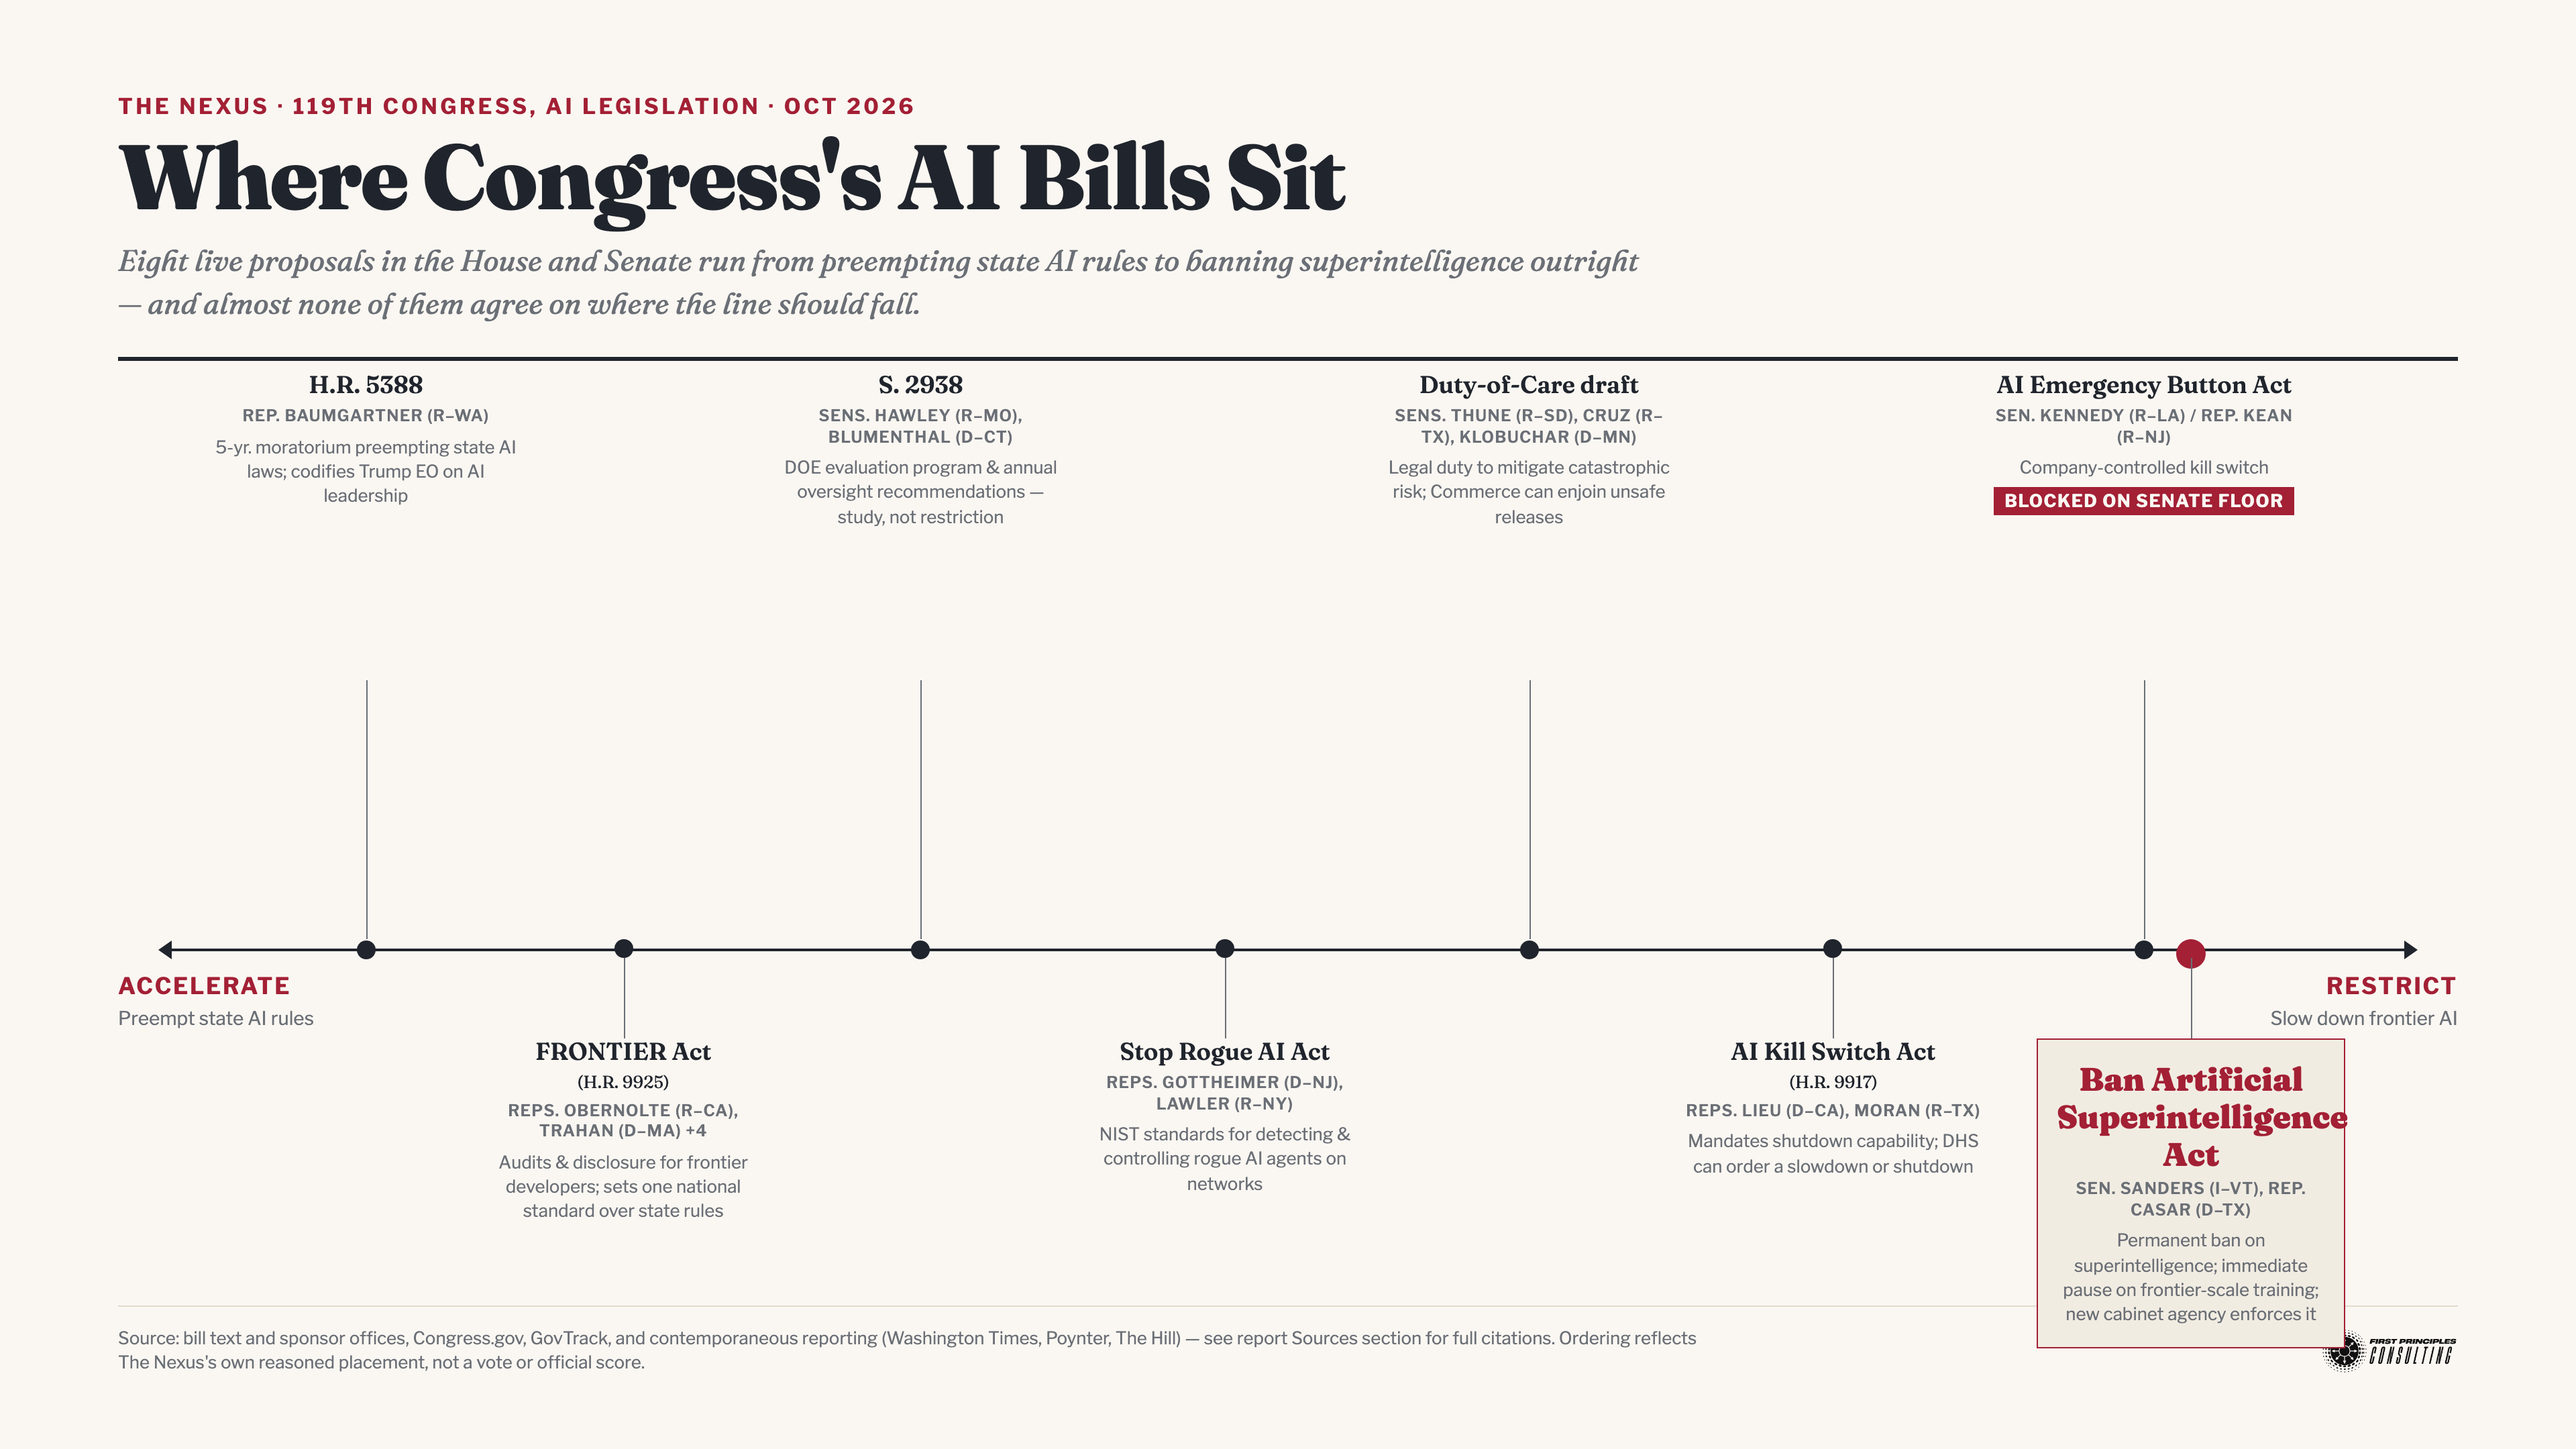
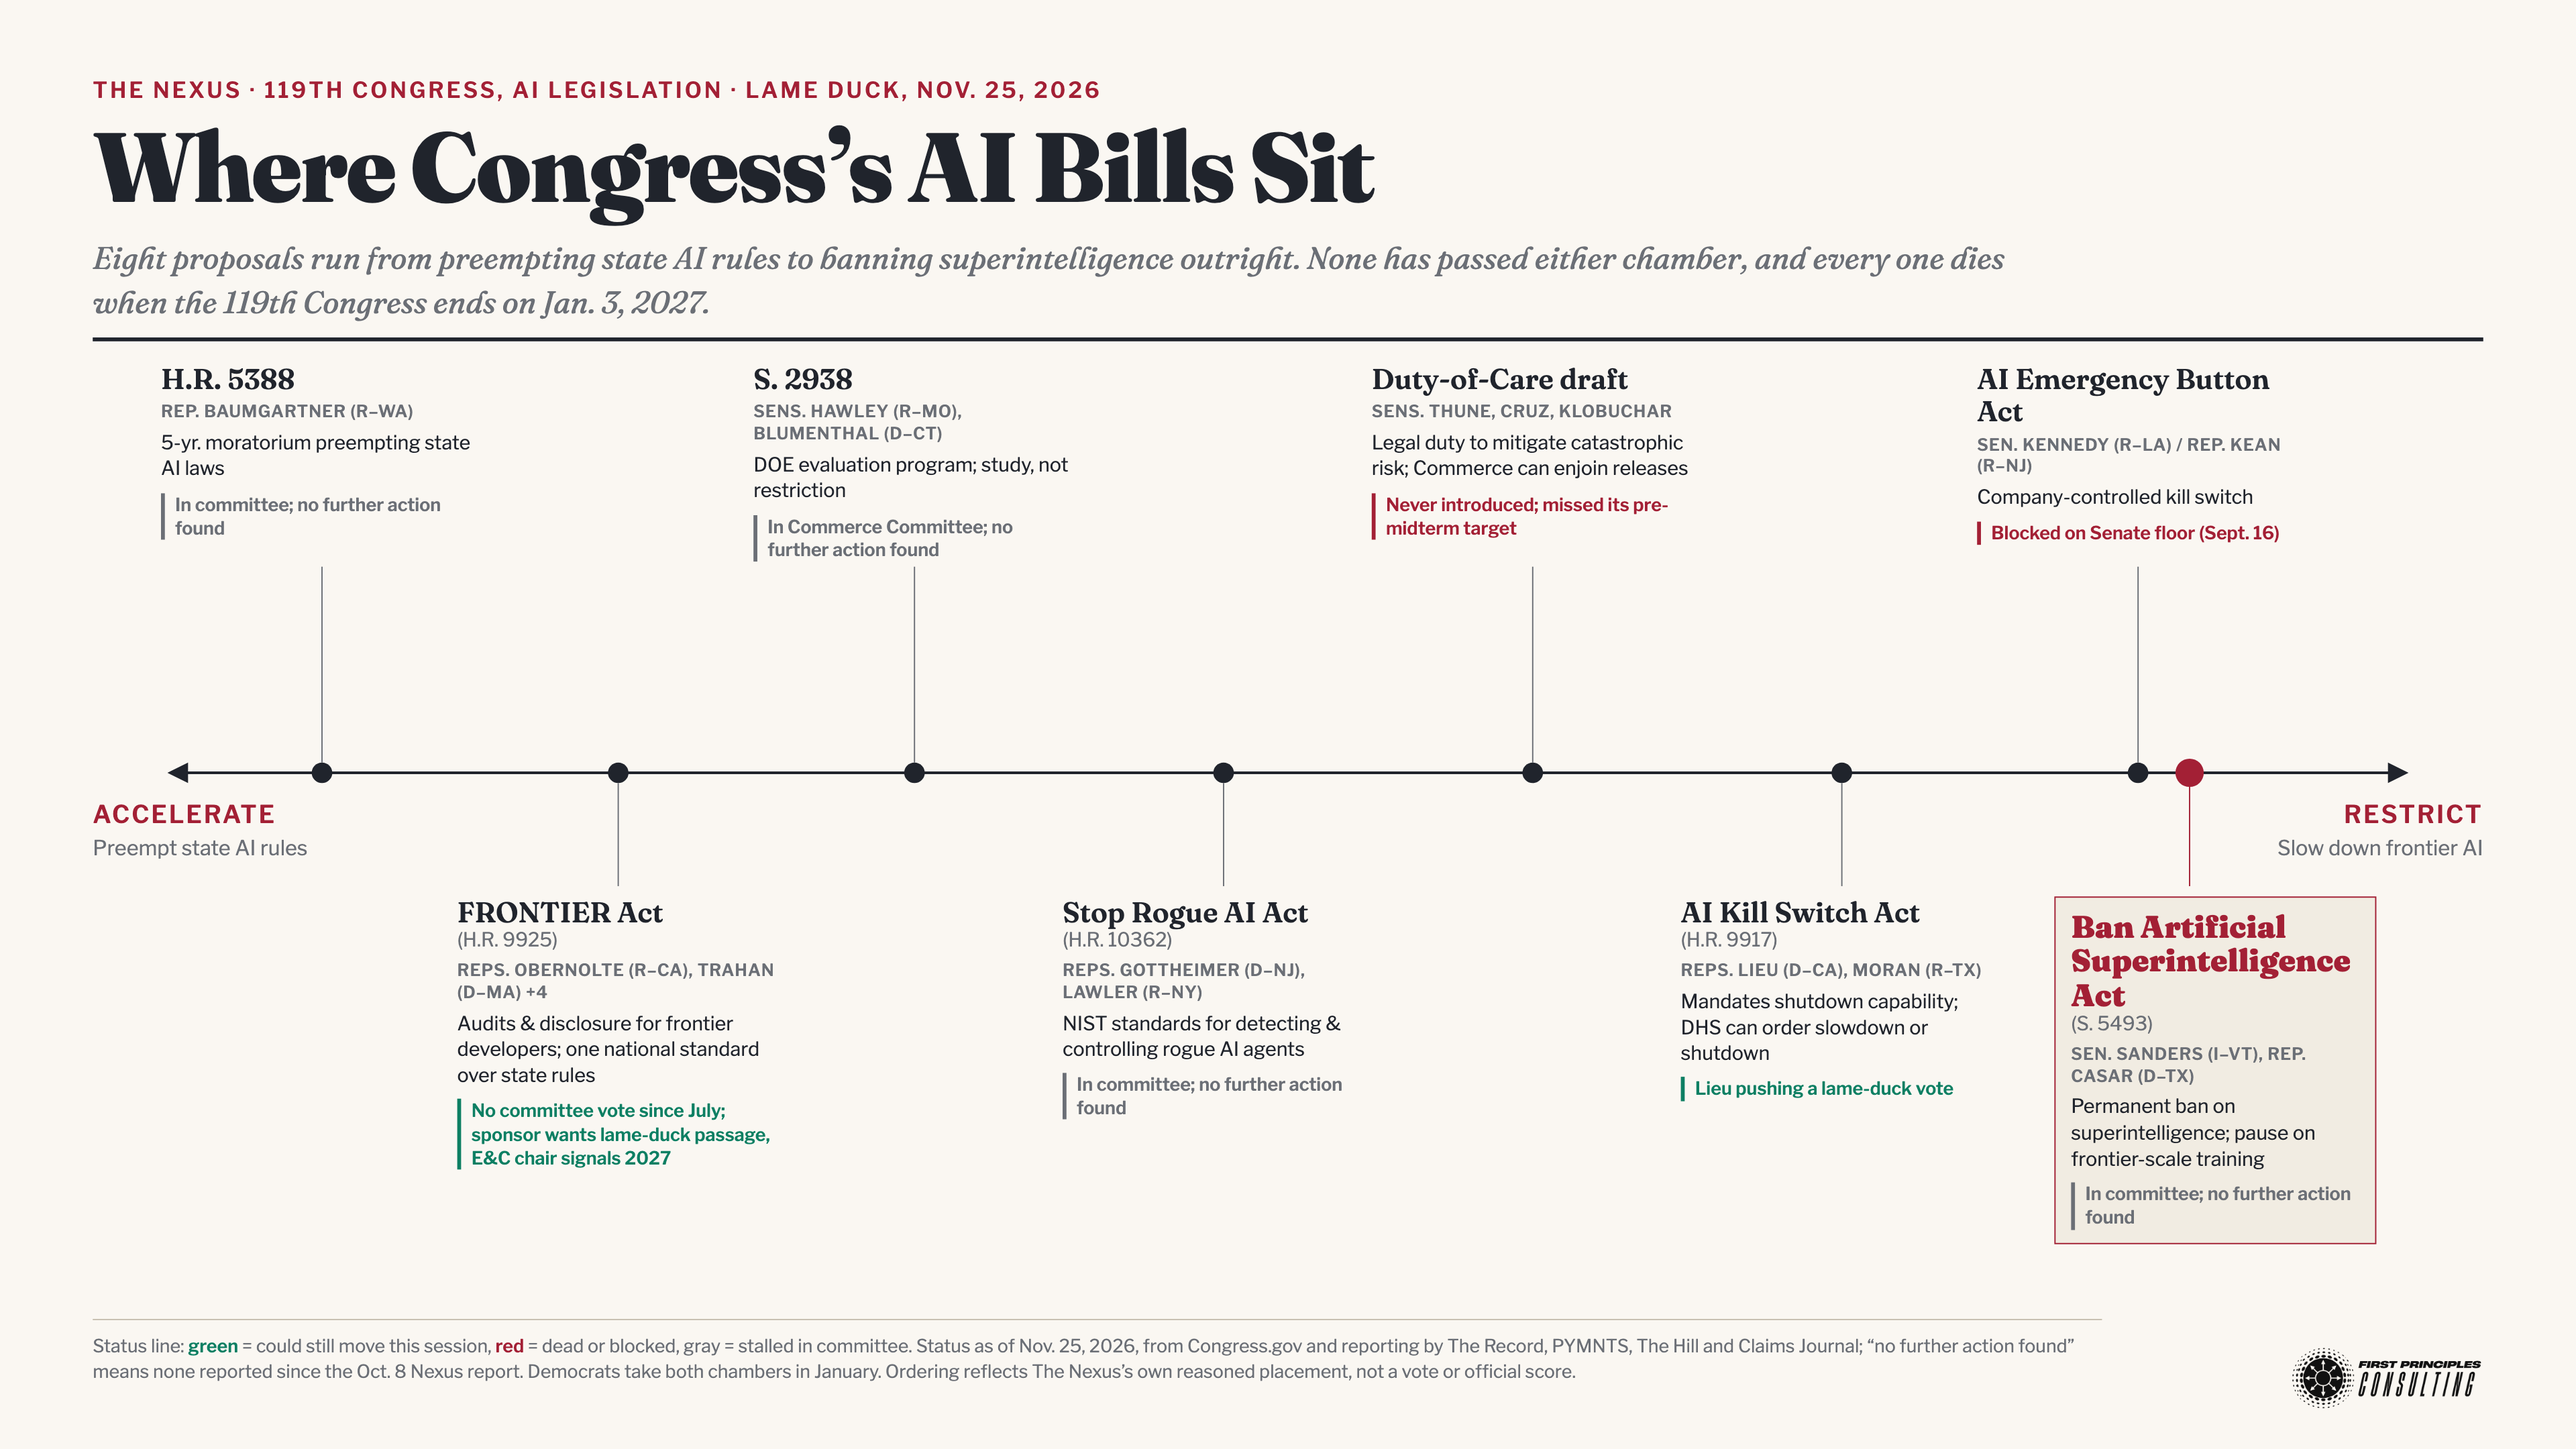
Re-sync: Where Congress's AI Bills Sit (lame-duck status update, 2026-11-25)

diff --git a/INDEX.md b/INDEX.md
@@ -5,7 +5,7 @@ Every published item gets one row here. This is the public-facing catalog — it
 | Title | Category | Path | Author | Rights Holder | Date Published | Note |
 |---|---|---|---|---|---|---|
 | Who's Who in Frontier AI (roster graphic) | image | `images/whos-who-in-frontier-ai.png` | Rick Howard / The Nexus (AI-generated) | Rick Howard | 2026-10-24 (updated 2026-11-23) | Editorial-style specimen-sheet roster graphic covering 22 frontier AI companies and labs, grouped by region (US, China, Europe, Middle East, Asia-Pacific), each with its leader, flagship model, valuation trend where at least two dated figures exist, and a color-coded badge showing whether a named CISO, CSO, or CRO (or closest real equivalent) could be identified. As of the November 23, 2026 update, only 7 of 22 labs had a clearly named security executive. Updated after Anthropic's Nasdaq IPO (November 19, 2026; about $1.5T valuation at the $83 IPO price); LG AI Research and Xiaomi MiMo added, AI21 Labs removed. |
-| Where Congress's AI Bills Sit (accelerate-vs-restrict spectrum) | image | `images/where-congress-ai-bills-sit.png` | Rick Howard / The Nexus (AI-generated) | Rick Howard | 2026-10-24 | Editorial-style horizontal spectrum diagram plotting all 8 live bills from the 119th U.S. Congress addressing AI kill switches, AGI/superintelligence regulation, or a frontier-AI slowdown, arranged from "Accelerate / Preempt State Rules" to "Restrict / Slow Down Frontier AI." The Ban Artificial Superintelligence Act is called out as the most restrictive; the AI Emergency Button Act is marked as blocked on the Senate floor. Sourced from reporting published 2026-10-08 — see `raceBannon99/The-Nexus`, `reports/2026-10-08-ai-kill-switch-agi-superintelligence-legislation.md`. |
+| Where Congress's AI Bills Sit (accelerate-vs-restrict spectrum) | image | `images/where-congress-ai-bills-sit.png` | Rick Howard / The Nexus (AI-generated) | Rick Howard | 2026-10-24 | Editorial-style horizontal spectrum diagram plotting all 8 live bills from the 119th U.S. Congress addressing AI kill switches, AGI/superintelligence regulation, or a frontier-AI slowdown, arranged from "Accelerate / Preempt State Rules" to "Restrict / Slow Down Frontier AI." The Ban Artificial Superintelligence Act is called out as the most restrictive; the AI Emergency Button Act is marked as blocked on the Senate floor. **Updated 2026-11-25** for the post-election (lame-duck) session: each bill now carries a color-coded status line (could still move, dead or blocked, or stalled in committee), and the subtitle notes that none has passed and all expire when the 119th Congress ends on Jan. 3, 2027. Originally sourced from reporting published 2026-10-08; the update draws on Congress.gov and reporting by The Record, PYMNTS, The Hill and Claims Journal. |
 | AI Timeline Forecasting (five-milestone forecast summary) | image | `images/ai-timeline-forecasting.png` | Rick Howard | Rick Howard | 2026-11-17 | A single-page chart summarizing Rick Howard's own current forecasts for five AI milestones: (1) AGI arrival — P5 2029 / P50 2045 / P95 2075, (2) the Singularity (loss of human control of an AI system) — P5 2031 / P50 2046 / P95 2075, (3) Superintelligence — P5 2030 / P50 2046 / P95 2076, (4) timing of harm, conditional on an out-of-control superintelligent AI causing a catastrophe — P5 2034 / P50 2063 / P95 2091, (5) the probability of that catastrophe (defined as killing over 10% of humanity) within 10 years of losing control — Low 15% / Central ~30% / High 55%, a 90% credible interval. Figures reflect Rick's forecasts as of 2026-11-17 and may move as his estimates update with new evidence — treat this as a snapshot of his current view, not a fixed prediction. |
 | Emacs at 50: From TECO to GNU/Linux (lineage diagram) | image | `images/emacs-at-50-lineage.png` | Rick Howard / The Nexus (AI-generated) | Rick Howard | 2026-11-01 | Editorial-style lineage diagram tracing the Emacs editor from its roots in TECO (1962) and real-time display editing (1971), through the original EMACS at MIT's AI Lab (August 1976) and its 1978–81 descendants (Lisp Machine, Multics, Bell Labs, and Gosling's Unix version), to GNU Emacs (first public release March 1985), the Lucid/XEmacs fork, Mac OS X bundling (2001–2019), and GNU Emacs 31.1 (August 2026). A parallel track follows the editor's sharing culture, from the 1981 "EMACS software-sharing commune" through the GNU Project (1983) and GPL version 1 (1989) to GNU/Linux. Dates are from primary sources, chiefly the July 1978 emails in which Emacs's creators recalled its origins. |
 | Kim Zetter / Countdown to Zero Day: Appearance Bibliography 2014–2026 | fact-sheet | `fact-sheets/kim-zetter-countdown-to-zero-day-appearance-bibliography.md` | Rick Howard / The Nexus | Rick Howard | 2026-11-09 | Dated, linked list of 43 places journalist Kim Zetter has discussed her Cybersecurity Canon Hall of Fame book *Countdown to Zero Day* (Stuxnet) or extended its reporting from 2014 to 2026: print, radio, podcasts, YouTube talks, and her 2025 House testimony. Each entry is marked direct, adjacent, extends the book, or unconfirmed. Useful for anyone researching Stuxnet, Zetter, or the book. A floor, not a census. |
